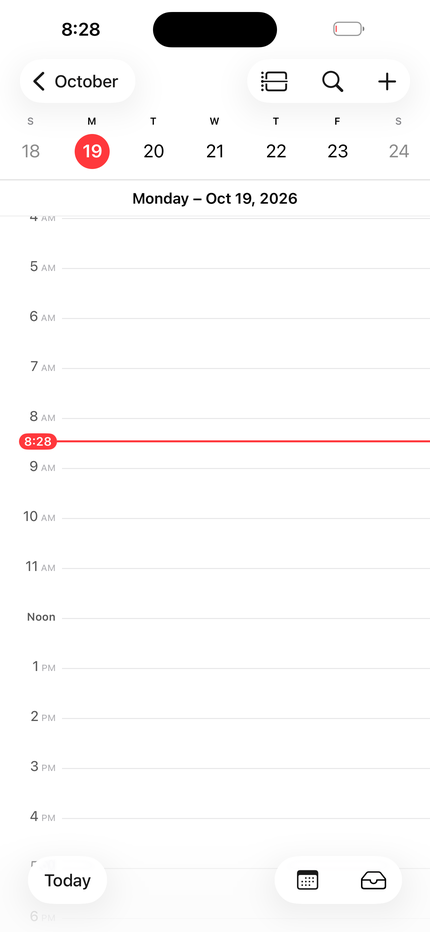
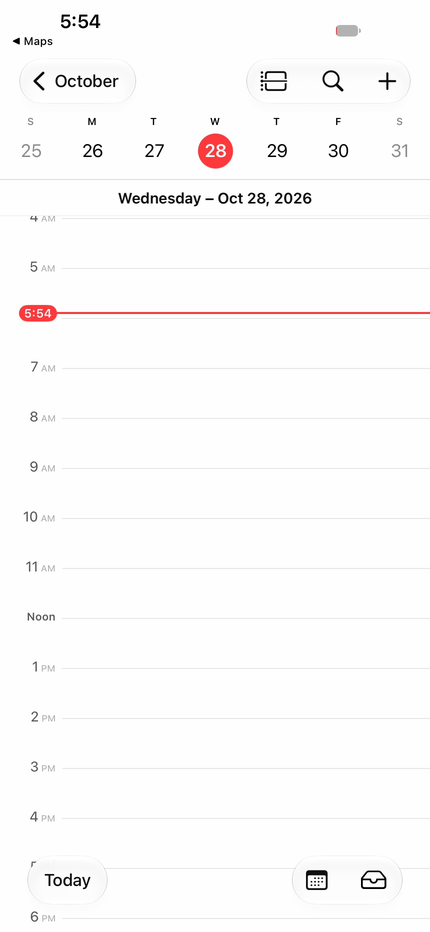
Tested on Linux: iPhone 16 Pro + iOS 27.0.1 (setup scripts) and the Duo + 27.1
- compatibility.json: iPhone17,3 + 27.0.1 is linux-tested (created end to end
  with setup/create-vm.sh: restore, CFW, first boot, unlock, Auto-Lock Never,
  2x); iPhone19,4 + 27.1 is linux-tested (home screen with display, wallpaper
  and touch; keep it at 3x).
- README, setup/README: the tested pairings; --cid; iOS 27's 2x floor.
- Screenshots from the new iOS 27.0.1 VM (lock screen, home screen, Maps,
  Calendar), taken through vphoned at 2x and stored at 430x932 like before.

diff --git a/README.md b/README.md
@@ -8,7 +8,7 @@ Run [vphone-cli](https://github.com/Lakr233/vphone-cli)'s virtual iPhone on a **
   <img src="docs/screenshots/maps.png" width="200" alt="Maps">
   <img src="docs/screenshots/calendar.png" width="200" alt="Calendar">
 </p>
-<p align="center"><i>iOS 26.6.2 running on a Linux PC (Fedora, NVIDIA GPU) in vphone-linux.</i></p>
+<p align="center"><i>iOS 27.0.1 (iPhone 16 Pro, at 2x) running on a Linux PC (Fedora, NVIDIA GPU) in vphone-linux, created with <code>setup/create-vm.sh</code>.</i></p>
 
 vphone-cli runs iOS on an Apple Silicon Mac with Apple's Virtualization.framework, on the
 `vresearch101` virtual platform that Apple's Private Cloud Compute (PCC) research VMs use. vphone-linux
@@ -39,7 +39,8 @@ Tested guest pairings on Linux:
 | Device | iOS | cloudOS | State |
 |---|---|---|---|
 | iPhone17,3 (iPhone 16 Pro) | 26.6.2 (23G90) | 26.4 (23E5207q) | end-to-end: the home screen, created with no Mac |
-| iPhone19,4 (iPhone Duo) | 27.1 (24A94425) | 26.4 (23E5207q) | boots and unlocks (FEAT_CSSC + FEAT_PAUTH_LR in QEMU + vphone-cli 2.13.4's X1/CSSC patches); the display scanout is pending |
+| iPhone17,3 (iPhone 16 Pro) | 27.0.1 (24A446) | 26.4 (23E5207q) | end-to-end with `setup/create-vm.sh`: the home screen at 2x, Auto-Lock Never |
+| iPhone19,4 (iPhone Duo) | 27.1 (24A94425) | 26.4 (23E5207q) | the home screen: display, wallpaper, touch (keep it at 3x); needs this repo's QEMU (native X1 and CSSC) |
 
 **Works**
 
@@ -108,8 +109,8 @@ at the end (never killed by the scripts). Non-interactive:
 ./setup/create-vm.sh --list         # every device and its tested pairings
 ```
 
-The pairings tested here: iPhone17,3 + iOS 26.6.2 (end-to-end: the home screen) and iPhone19,4
-(the iPhone Duo) + iOS 27.1 (boots and unlocks; the display scanout is still pending). Other
+The pairings tested here: iPhone17,3 + iOS 26.6.2 and + iOS 27.0.1 (end to end with these scripts:
+the home screen), and iPhone19,4 (the iPhone Duo) + iOS 27.1 (the home screen; keep it at 3x). Other
 pairings are macOS-tested and offered as "under test" with a confirmation. Already have a VM made
 with vphone-cli on a Mac? [docs/CREATE-ON-MAC.md](docs/CREATE-ON-MAC.md) shows how to bring it over
 instead. The step-by-step manual path, with the packages and every command, is

diff --git a/setup/README.md b/setup/README.md
@@ -27,7 +27,8 @@ Non-interactive:
 | Device | iOS | cloudOS | Preset | State |
 |---|---|---|---|---|
 | `iPhone17,3` (iPhone 16 Pro) | **26.6.2** (23G90) | `26.4-23E5207q` | standard | end-to-end: home screen |
-| `iPhone19,4` (iPhone Duo) | **27.1** (24A94425) | `26.4-23E5207q` | standard | boots + unlocks; display scanout pending |
+| `iPhone17,3` (iPhone 16 Pro) | **27.0.1** (24A446) | `26.4-23E5207q` | standard | end-to-end with create-vm.sh: home screen at 2x |
+| `iPhone19,4` (iPhone Duo) | **27.1** (24A94425) | `26.4-23E5207q` | standard | home screen (keep at 3x) |
 
 iOS 27 pairings need this repo's QEMU (it implements FEAT_CSSC — without it the
 27.1 first boot crawls at a trap per instruction) and run `fw patch` under sudo
@@ -85,14 +86,15 @@ macOS instructions instead of pretending they work on Linux alone.
 | `--device ID` / `--ios V` | skip the menus |
 | `--cloudos IPSW` | override the pairing's cloudOS image |
 | `--name N` | VM name (default `vphone-<device>-<ios>`) |
-| `--scale 1|2|3` | display scale (default 1x — 9× fewer pixels than 3x) |
+| `--scale 1|2|3` | display scale (default 1x — 9× fewer pixels than 3x; iOS 27 does not go below 2x) |
 | `--dry-run` | print every command the pipeline would run, execute nothing |
 | `--list` | print devices and their pairings |
+| `--cid N` | the VM's vsock CID (default 3; pick another next to a running VM) |
 | `GPU_DRIVER_BUNDLE=` | path to `AppleParavirtGPUMetalIOGPUFamily.bundle` |
 | `IPSW_URL=`, `CLOUDOS_IPSW_URL=` | restore-image URLs instead of local files |
 
 Pairings labeled **TESTED-ON-LINUX** in `--list` are fully supported here
-(today that is one: iPhone17,3 + iOS 26.6.2); everything else is
+(today: iPhone17,3 + iOS 26.6.2 and 27.0.1, iPhone19,4 + iOS 27.1); everything else is
 **mac-tested -- under test**: selectable with a confirmation prompt.
 
 ## CI
